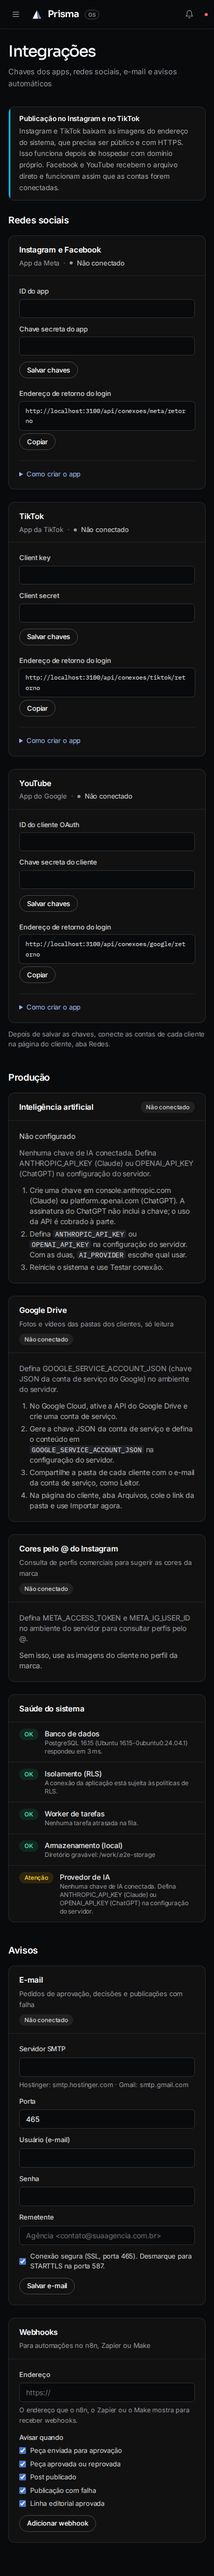
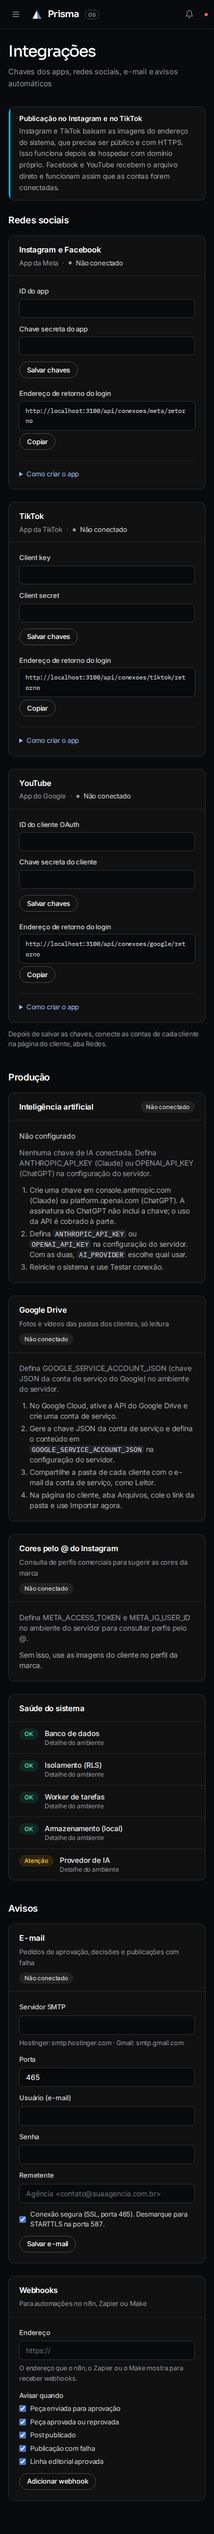
Fase 0: capturas não dependem do caminho da pasta no servidor
No celular, o cartão Saúde do sistema mostra o caminho da pasta de
arquivos; no CI ele é mais longo e quebrava em duas linhas, deixando a
tela de Integrações 16 px mais alta. Na captura, esses detalhes de
ambiente viram um texto fixo. CAPTURAS_WORKDIR permite conferir com
outro caminho (verificado com o caminho usado pelo GitHub Actions).

Claude-Session: https://claude.ai/code/session_01ExQErdFqFcLxjPvarfgfGd

diff --git a/tests/visual/telas.spec.ts b/tests/visual/telas.spec.ts
@@ -30,6 +30,11 @@ async function login(page: Page) {
 
 async function snap(page: Page, name: string) {
   await page.waitForLoadState("networkidle");
+  // Textos que dependem da máquina (caminho da pasta de arquivos, tempo de resposta do banco)
+  // mudam a quebra de linha: viram um texto fixo antes da foto.
+  await page
+    .locator("[data-ambiente]")
+    .evaluateAll((els) => els.forEach((e) => (e.textContent = "Detalhe do ambiente")));
   // Dígitos de largura fixa: sem isso, a hora do dia muda a largura de uma data e, no celular, a
   // quebra de linha (e a altura da página) muda junto. As máscaras cobrem o texto, não o layout.
   await page.addStyleTag({

diff --git a/src/app/(app)/integracoes/page.tsx b/src/app/(app)/integracoes/page.tsx
@@ -252,7 +252,9 @@ export default async function IntegrationsPage() {
                 </Badge>
                 <div>
                   <div className="font-medium text-ink-100">{c.name}</div>
-                  <div className="text-xs text-ink-400">{c.detail}</div>
+                  <div data-ambiente className="text-xs text-ink-400">
+                    {c.detail}
+                  </div>
                 </div>
               </li>
             ))}
